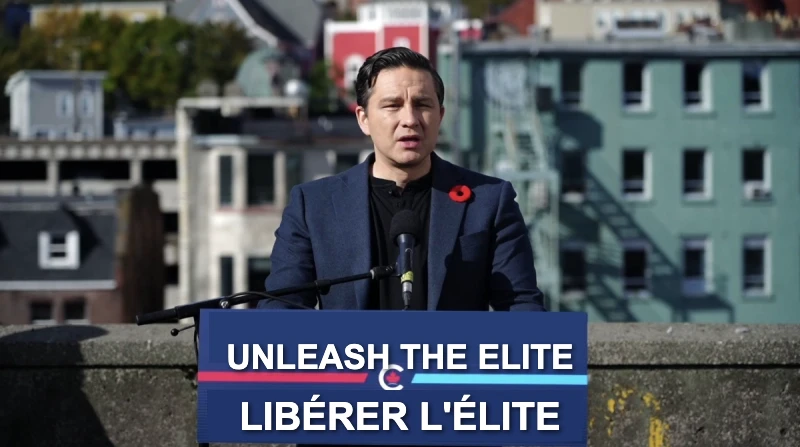
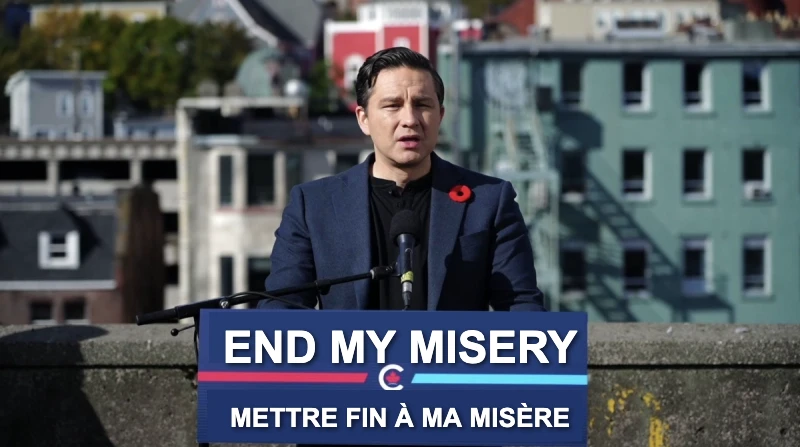
Update verbs, fix positioning of en slogan in export

Changed region(s): [[0.2812, 0.7271, 0.7188, 0.8434], [0.2812, 0.8725, 0.7188, 0.9888]]

diff --git a/js/app.min.js b/js/app.min.js
@@ -1,1 +1,1 @@
-const BACKGROUND_IMAGE="images/pp3.webp",IMAGE_QUALITY=.9,verbs=[{en:"AXE",fr:"SUPPRIMER"},{en:"CUT",fr:"COUPER"},{en:"NIX",fr:"RÉDUIRE"},{en:"SCRAP",fr:"ABANDONNER"},{en:"DUMP",fr:"JETTER"},{en:"SLASH",fr:"SABRER"},{en:"FIX",fr:"RÉPARER"},{en:"STOP",fr:"ARRÊTER"},{en:"BUILD",fr:"CONSTRUIRE"},{en:"BOOST",fr:"STIMULER"},{en:"CRUSH",fr:"ÉCRASER"},{en:"END",fr:"METTRE FIN À"},{en:"CONTROL",fr:"MAÎTRISER"},{en:"DEFUND",fr:"REMBOURSER"},{en:"REIN IN",fr:"FREINER"},{en:"FREEZE",fr:"GELER"},{en:"DRAIN",fr:"ASSÉCHER"},{en:"TACKLE",fr:"AFFRONTER"},{en:"UNLEASH",fr:"LIBÉRER"},{en:"UNLOCK",fr:"DÉBLOQUER"},{en:"DEFEND",fr:"DÉFENDRE"},{en:"REBUILD",fr:"RECONSTRUIRE"},{en:"IGNITE",fr:"ALLUMER"},{en:"EMPOWER",fr:"AUTONOMISER"},{en:"CHAMPION",fr:"DÉFENDRE"},{en:"EXPLOIT",fr:"EXPLOITER"},{en:"RESTORE",fr:"RESTAURER"},{en:"DISRUPT",fr:"PERTURBER"}],nouns=[{en:"THE TAX",fr:"LES IMPÔTS"},{en:"THE BUDGET",fr:"LE BUDGET"},{en:"THE CRIME",fr:"LE CRIME"},{en:"THE JOBS",fr:"LES JOBS"},{en:"THE HOUSES",fr:"LES MAISONS"},{en:"THE BORDERS",fr:"LES FRONTIÈRES"},{en:"THE COST OF LIVING",fr:"LE COÛT DE LA VIE"},{en:"THE HEALTH",fr:"LES SOINS DE SANTÉ"},{en:"THE EDUCATION",fr:"L'ÉDUCATION"},{en:"THE SCHOOLS",fr:"LES ECOLES"},{en:"THE CBC",fr:"RADIO CANADA"},{en:"THE QUEBEC",fr:"LE QUEBEC"},{en:"THE CITY MAYORS",fr:"LES MAIRES DES VILLES"},{en:"THE PUBLIC SECTOR",fr:"LE SECTEUR PUBLIC"},{en:"JUSTIN TRUDEAU",fr:"JUSTIN TRUDEAU"},{en:"THE LIBERALS",fr:"LES LIBÉRAUX"},{en:"THE BLOC",fr:"LE BLOC"},{en:"THE INFLATION",fr:"L'INFLATION"},{en:"THE SWAMP",fr:"LE MARÉCAGE"},{en:"THE RED TAPE",fr:"LA BUREAUCRATIE"},{en:"THE GAS PRICES",fr:"LES PRIX DU CARBURANT"},{en:"THE DEFICIT",fr:"LE DÉFICIT"},{en:"MY MISERY",fr:"MA MISÈRE"},{en:"MY LEADERSHIP",fr:"MON LEADERSHIP"},{en:"MY SEAT",fr:"MON SIÈGE"},{en:"MY SECURITY CLEARANCE",fr:"HABILITATION DE SÉCURITÉ"},{en:"MY PARTY",fr:"MON PARTI"},{en:"THE WASTE",fr:"LE GASPILLAGE"},{en:"THE SYSTEM",fr:"LE SYSTÈME"},{en:"THE ECONOMY",fr:"L'ÉCONOMIE"},{en:"THE ESTABLISHMENT",fr:"L'ESTABLISHMENT"},{en:"THE STATUS QUO",fr:"LE STATU QUO"},{en:"THE MIDDLE CLASS",fr:"LA CLASSE MOYENNE"},{en:"THE SMALL BUSINESSES",fr:"LES PETITES ENTREPRISES"},{en:"THE FUTURE GENERATIONS",fr:"LES GÉNÉRATIONS FUTURES"},{en:"THE BUREAUCRACY",fr:"LA BUREAUCRATIE"},{en:"THE BIG GOVERNMENT",fr:"LE GOUVERNEMENT TENTACULAIRE"},{en:"THE FAMILY VALUES",fr:"LES VALEURS FAMILIALES"},{en:"THE CANADIAN DREAM",fr:"LE RÊVE CANADIEN"},{en:"THE BLOC MAJORITY",fr:"LE BLOC MAJORITAIRE"},{en:"THE DEMOCRACY",fr:"LA DÉMOCRATIE"},{en:"THE REGULATIONS",fr:"LES RÈGLEMENTS"},{en:"THE DEEP STATE",fr:"L'ÉTAT PROFOND"},{en:"THE POLITICAL CORRECTNESS",fr:"LE POLITIQUEMENT CORRECT"},{en:"THE WORKING CLASS",fr:"LA CLASSE OUVRIÈRE"},{en:"THE ENVIRONMENT",fr:"L'ENVIRONNEMENT"},{en:"THE TREES",fr:"LES ARBRES"},{en:"THE SALES TAX",fr:"LA TAXE DE VENTE"},{en:"SNEAKY CARNEY",fr:"CARNEY SOURDIN"},{en:"THE POLICE",fr:"LA POLICE"},{en:"THE MEDIA",fr:"LES MÉDIAS"},{en:"THE ELITE",fr:"L'ÉLITE"},{en:"THE NATION",fr:"LA NATION"},{en:"THE PEOPLE",fr:"LE PEUPLE"},{en:"THE FUTURE",fr:"L'AVENIR"},{en:"THE COUNTRY",fr:"LE PAYS"},{en:"THE REPUBLIC",fr:"LA RÉPUBLIQUE"},{en:"THE WORLD",fr:"LE MONDE"},{en:"THE PLANET",fr:"LA PLANÈTE"},{en:"THE UNIVERSE",fr:"L'UNIVERS"},{en:"THE GALAXY",fr:"LA GALAXIE"},{en:"THE COSMOS",fr:"LE COSMOS"},{en:"THE MULTIVERSE",fr:"LE MULTIVERS"},{en:"THE 51ST STATE",fr:"LE 51e ÉTAT"}];let lastVerbIndex,lastNounIndex;function generateSlogan(){let e,n,t=0;do{if(e=Math.floor(Math.random()*verbs.length),n=Math.floor(Math.random()*nouns.length),t++,t>=10)break}while(e===lastVerbIndex&&n===lastNounIndex);lastVerbIndex=e,lastNounIndex=n;const r=verbs[e],E=nouns[n];return{en:`${r.en} ${E.en}`,fr:`${r.fr} ${E.fr}`}}function createSharingImage(e,n){return new Promise((t=>{const r=new Image;r.onload=function(){const E=r.naturalWidth,o=r.naturalHeight,a=document.createElement("canvas");a.width=E,a.height=o;a.getContext("2d").drawImage(r,0,0);const i=createSVGContent(a.toDataURL("image/webp"),calculateTextSettings(e,n,E,o),E,o,e,n),s=new Blob([i],{type:"image/svg+xml"}),f=URL.createObjectURL(s);t({url:f,svgContent:i})},r.onerror=function(){console.error("Failed to load image:",BACKGROUND_IMAGE),t({error:!0,message:"Failed to load background image"})},r.src=BACKGROUND_IMAGE}))}function calculateTextSettings(e,n,t,r){const E=Math.round(.87*r),o=e.length,a=n.length,i=.029*t;return{enY:E-30,frY:E+30,enSize:Math.min(Math.max(i*(25/Math.max(o,10)),14),50),frSize:Math.min(Math.max(i*(25/Math.max(a,10)),12),40)}}function createSVGContent(e,n,t,r,E,o){return`\n    <svg xmlns="http://www.w3.org/2000/svg" \n        width="100%" \n        height="auto" \n        viewBox="0 0 ${t} ${r}"\n        preserveAspectRatio="xMidYMid meet">\n        <defs>\n            <style>\n                .slogan-text {\n                    font-family: Arial, sans-serif;\n                    font-weight: bold;\n                    fill: white;\n                    text-anchor: middle;\n                    text-shadow: 2px 2px 4px rgba(0, 0, 0, 0.7);\n                }\n            </style>\n        </defs>\n        \n        \x3c!-- Background image with embedded data URL --\x3e\n        <image href="${e}" width="100%" height="100%" preserveAspectRatio="xMidYMid meet" />\n        \n        \x3c!-- English slogan --\x3e\n        <text class="slogan-text" x="${t/2}" y="${n.enY}" font-size="${n.enSize}">\n            ${E}\n        </text>\n        \n        \x3c!-- French slogan --\x3e\n        <text class="slogan-text" x="${t/2}" y="${n.frY}" font-size="${n.frSize}">\n            ${o}\n        </text>\n    </svg>`}function updateSlogan(){const e=generateSlogan(),n=document.getElementById("podium-container");n.innerHTML='<div class="loading">Generating slogan...</div>',createSharingImage(e.en,e.fr).then((t=>{const r=document.createElement("img");r.src=t.url,r.alt=`Campaign slogan: ${e.en} / ${e.fr}`,r.className="fade-in",r.dataset.svgContent=t.svgContent,n.innerHTML="",n.appendChild(r)})).catch((t=>{console.error("Error creating slogan image:",t),n.innerHTML=`\n                <div class="error-message">\n                    <p>Error generating image</p>\n                    <p>English: ${e.en}</p>\n                    <p>French: ${e.fr}</p>\n                </div>`}))}function processImage(e,n){if(!e)return console.error("No SVG content found"),void n(null,null,!0);const t=new Image;t.onload=function(){const r=document.createElement("canvas"),E=r.getContext("2d");r.width=t.naturalWidth,r.height=t.naturalHeight,E.drawImage(t,0,0);const o=extractTextFromSVG(e);renderTextOnCanvas(E,r.width,o),n(r,e)},t.onerror=function(){console.error("Failed to load original image"),n(null,e,!0)},t.src=BACKGROUND_IMAGE}function extractTextFromSVG(e){const n=(new DOMParser).parseFromString(e,"image/svg+xml").querySelectorAll("text");let t={en:{text:"",y:0,fontSize:0},fr:{text:"",y:0,fontSize:0}};return n.forEach(((e,n)=>{const r=e.textContent.trim(),E=parseFloat(e.getAttribute("y")),o=parseFloat(e.getAttribute("font-size"));0===n?t.en={text:r,y:E,fontSize:o}:t.fr={text:r,y:E,fontSize:o}})),t}function renderTextOnCanvas(e,n,t){e.fillStyle="white",e.textAlign="center",e.textBaseline="middle",e.shadowColor="rgba(0, 0, 0, 0.7)",e.shadowBlur=4,e.shadowOffsetX=2,e.shadowOffsetY=2,e.font=`bold ${t.en.fontSize}px Arial, sans-serif`,e.fillText(t.en.text,n/2,t.en.y),e.font=`bold ${t.fr.fontSize}px Arial, sans-serif`,e.fillText(t.fr.text,n/2,t.fr.y)}function exportCanvas(e,n,t){const{asDownload:r=!1,filename:E="campaign-slogan"}=t||{};try{exportCanvasAs(e,"webp",`${E}.webp`,r)}catch(t){console.error("Error creating WebP:",t);try{exportCanvasAs(e,"png",`${E}.png`,r)}catch(e){console.error("Error creating PNG:",e),n&&exportSVG(n,`${E}.svg`,r)}}}function exportCanvasAs(e,n,t,r){if(r){const r=e.toDataURL(`image/${n}`,.9),E=document.createElement("a");E.href=r,E.download=t,document.body.appendChild(E),E.click(),document.body.removeChild(E)}else e.toBlob((e=>{const n=URL.createObjectURL(e);window.open(n,"_blank"),setTimeout((()=>URL.revokeObjectURL(n)),6e4)}),`image/${n}`,.9)}function exportSVG(e,n,t){const r=new Blob([e],{type:"image/svg+xml"}),E=URL.createObjectURL(r);if(t){const e=document.createElement("a");e.href=E,e.download=n,document.body.appendChild(e),e.click(),document.body.removeChild(e),URL.revokeObjectURL(E)}else window.open(E,"_blank"),setTimeout((()=>URL.revokeObjectURL(E)),6e4)}function downloadShareableImage(){const e=document.querySelector("#podium-container img");e&&e.dataset.svgContent?processImage(e.dataset.svgContent,((e,n,t)=>{if(t)return alert("Failed to load background image. Falling back to SVG."),void exportSVG(n,"campaign-slogan.svg",!0);exportCanvas(e,n,{asDownload:!0})})):console.error("No image or SVG content found")}function shareInNewTab(){const e=document.querySelector("#podium-container img");e&&e.dataset.svgContent?processImage(e.dataset.svgContent,((e,n,t)=>{t?exportSVG(n,null,!1):exportCanvas(e,n,{asDownload:!1})})):console.error("No image or SVG content found")}function downloadAsSVG(e){const n=new Blob([e],{type:"image/svg+xml"}),t=URL.createObjectURL(n),r=document.createElement("a");r.href=t,r.download="campaign-slogan.svg",document.body.appendChild(r),r.click(),document.body.removeChild(r),URL.revokeObjectURL(t)}function addAnimationStyles(){if(!document.querySelector("style#slogan-animations")){const e=document.createElement("style");e.id="slogan-animations",e.textContent="\n            @keyframes fadeIn {\n                from { opacity: 0; transform: translateY(10px); }\n                to { opacity: 1; transform: translateY(0); }\n            }\n            .fade-in {\n                animation: fadeIn 0.5s ease-in-out;\n            }\n            .loading {\n                font-family: Arial, sans-serif;\n                text-align: center;\n                padding: 20px;\n                color: #333;\n            }\n            .error-message {\n                font-family: Arial, sans-serif;\n                text-align: center;\n                padding: 20px;\n                color: #721c24;\n                background-color: #f8d7da;\n                border: 1px solid #f5c6cb;\n                border-radius: 4px;\n            }\n        ",document.head.appendChild(e)}}document.addEventListener("DOMContentLoaded",(()=>{addAnimationStyles(),updateSlogan(),document.getElementById("generateButton").addEventListener("click",updateSlogan),document.getElementById("downloadButton").addEventListener("click",downloadShareableImage),document.getElementById("shareButton").addEventListener("click",shareInNewTab),document.addEventListener("keydown",(function(e){"Space"===e.code&&(updateSlogan(),e.preventDefault())}))}));
+const BACKGROUND_IMAGE="images/pp3.webp",IMAGE_QUALITY=.9,verbs=[{en:"AXE",fr:"HACHER"},{en:"CUT",fr:"COUPER"},{en:"NIX",fr:"RÉDUIRE"},{en:"SCRAP",fr:"SCRAPPER"},{en:"DUMP",fr:"JETTER"},{en:"SLASH",fr:"SLASHER"},{en:"FIX",fr:"RÉPARER"},{en:"STOP",fr:"STOPPER"},{en:"BUILD",fr:"CONSTRUIRE"},{en:"BOOST",fr:"BOOSTER"},{en:"CRUSH",fr:"ÉCRASER"},{en:"END",fr:"METTRE FIN À"},{en:"CONTROL",fr:"MAÎTRISER"},{en:"DEFUND",fr:"REMBOURSER"},{en:"REIN IN",fr:"FREINER"},{en:"FREEZE",fr:"GELER"},{en:"DRAIN",fr:"ASSÉCHER"},{en:"TACKLE",fr:"TACKLER"},{en:"UNLEASH",fr:"LIBÉRER"},{en:"UNLOCK",fr:"DÉBLOQUER"},{en:"DEFEND",fr:"DÉFENDRE"},{en:"REBUILD",fr:"RECONSTRUIRE"},{en:"IGNITE",fr:"ALLUMER"},{en:"EMPOWER",fr:"AUTONOMISER"},{en:"CHAMPION",fr:"CHAMPIONER"},{en:"EXPLOIT",fr:"EXPLOITER"},{en:"RESTORE",fr:"RESTAURER"},{en:"DISRUPT",fr:"PERTURBER"},{en:"YEET",fr:"YEETER"}],nouns=[{en:"THE TAX",fr:"LES IMPÔTS"},{en:"THE BUDGET",fr:"LE BUDGET"},{en:"THE CRIME",fr:"LE CRIME"},{en:"THE JOBS",fr:"LES JOBS"},{en:"THE HOUSES",fr:"LES MAISONS"},{en:"THE BORDERS",fr:"LES FRONTIÈRES"},{en:"THE COST OF LIVING",fr:"LE COÛT DE LA VIE"},{en:"THE HEALTH",fr:"LES SOINS DE SANTÉ"},{en:"THE EDUCATION",fr:"L'ÉDUCATION"},{en:"THE SCHOOLS",fr:"LES ECOLES"},{en:"THE CBC",fr:"RADIO CANADA"},{en:"THE QUEBEC",fr:"LE QUEBEC"},{en:"THE CITY MAYORS",fr:"LES MAIRES DES VILLES"},{en:"THE PUBLIC SECTOR",fr:"LE SECTEUR PUBLIC"},{en:"JUSTIN TRUDEAU",fr:"JUSTIN TRUDEAU"},{en:"THE LIBERALS",fr:"LES LIBÉRAUX"},{en:"THE BLOC",fr:"LE BLOC"},{en:"THE INFLATION",fr:"L'INFLATION"},{en:"THE SWAMP",fr:"LE MARÉCAGE"},{en:"THE RED TAPE",fr:"LA BUREAUCRATIE"},{en:"THE GAS PRICES",fr:"LES PRIX DU CARBURANT"},{en:"THE DEFICIT",fr:"LE DÉFICIT"},{en:"MY MISERY",fr:"MA MISÈRE"},{en:"MY LEADERSHIP",fr:"MON LEADERSHIP"},{en:"MY SEAT",fr:"MON SIÈGE"},{en:"MY SECURITY CLEARANCE",fr:"HABILITATION DE SÉCURITÉ"},{en:"MY PARTY",fr:"MON PARTI"},{en:"THE WASTE",fr:"LE GASPILLAGE"},{en:"THE SUITS",fr:"LES COSTUMES"},{en:"THE SYSTEM",fr:"LE SYSTÈME"},{en:"THE ECONOMY",fr:"L'ÉCONOMIE"},{en:"THE ESTABLISHMENT",fr:"L'ESTABLISHMENT"},{en:"THE STATUS QUO",fr:"LE STATU QUO"},{en:"THE MIDDLE CLASS",fr:"LA CLASSE MOYENNE"},{en:"THE SMALL BUSINESSES",fr:"LES PETITES ENTREPRISES"},{en:"THE FUTURE GENERATIONS",fr:"LES GÉNÉRATIONS FUTURES"},{en:"THE BUREAUCRACY",fr:"LA BUREAUCRATIE"},{en:"THE BIG GOVERNMENT",fr:"LE GOUVERNEMENT TENTACULAIRE"},{en:"THE FAMILY VALUES",fr:"LES VALEURS FAMILIALES"},{en:"THE CANADIAN DREAM",fr:"LE RÊVE CANADIEN"},{en:"THE BLOC MAJORITY",fr:"LE BLOC MAJORITAIRE"},{en:"THE DEMOCRACY",fr:"LA DÉMOCRATIE"},{en:"THE REGULATIONS",fr:"LES RÈGLEMENTS"},{en:"THE DEEP STATE",fr:"L'ÉTAT PROFOND"},{en:"THE POLITICAL CORRECTNESS",fr:"LE POLITIQUEMENT CORRECT"},{en:"THE WORKING CLASS",fr:"LA CLASSE OUVRIÈRE"},{en:"THE ENVIRONMENT",fr:"L'ENVIRONNEMENT"},{en:"THE TREES",fr:"LES ARBRES"},{en:"THE SALES TAX",fr:"LA TAXE DE VENTE"},{en:"SNEAKY CARNEY",fr:"CARNEY SOURDIN"},{en:"THE POLICE",fr:"LA POLICE"},{en:"THE MEDIA",fr:"LES MÉDIAS"},{en:"THE ELITE",fr:"L'ÉLITE"},{en:"THE NATION",fr:"LA NATION"},{en:"THE PEOPLE",fr:"LE PEUPLE"},{en:"THE FUTURE",fr:"L'AVENIR"},{en:"THE COUNTRY",fr:"LE PAYS"},{en:"THE WORLD",fr:"LE MONDE"},{en:"THE PLANET",fr:"LA PLANÈTE"},{en:"THE UNIVERSE",fr:"L'UNIVERS"},{en:"THE GALAXY",fr:"LA GALAXIE"},{en:"THE COSMOS",fr:"LE COSMOS"},{en:"THE MULTIVERSE",fr:"LE MULTIVERS"},{en:"THE 51ST STATE",fr:"LE 51e ÉTAT"}];let lastVerbIndex,lastNounIndex;function generateSlogan(){let e,n,t=0;do{if(e=Math.floor(Math.random()*verbs.length),n=Math.floor(Math.random()*nouns.length),t++,t>=10)break}while(e===lastVerbIndex&&n===lastNounIndex);lastVerbIndex=e,lastNounIndex=n;const r=verbs[e],E=nouns[n];return{en:`${r.en} ${E.en}`,fr:`${r.fr} ${E.fr}`}}function createSharingImage(e,n){return new Promise((t=>{const r=new Image;r.onload=function(){const E=r.naturalWidth,o=r.naturalHeight,a=document.createElement("canvas");a.width=E,a.height=o;a.getContext("2d").drawImage(r,0,0);const i=createSVGContent(a.toDataURL("image/webp"),calculateTextSettings(e,n,E,o),E,o,e,n),s=new Blob([i],{type:"image/svg+xml"}),T=URL.createObjectURL(s);t({url:T,svgContent:i})},r.onerror=function(){console.error("Failed to load image:",BACKGROUND_IMAGE),t({error:!0,message:"Failed to load background image"})},r.src=BACKGROUND_IMAGE}))}function calculateTextSettings(e,n,t,r){const E=Math.round(.87*r),o=e.length,a=n.length,i=.029*t;return{enY:E-30,frY:E+30,enSize:Math.min(Math.max(i*(25/Math.max(o,10)),14),50),frSize:Math.min(Math.max(i*(25/Math.max(a,10)),12),40)}}function createSVGContent(e,n,t,r,E,o){return`\n    <svg xmlns="http://www.w3.org/2000/svg" \n        width="100%" \n        height="auto" \n        viewBox="0 0 ${t} ${r}"\n        preserveAspectRatio="xMidYMid meet">\n        <defs>\n            <style>\n                .slogan-text {\n                    font-family: Arial, sans-serif;\n                    font-weight: bold;\n                    fill: white;\n                    text-anchor: middle;\n                    text-shadow: 2px 2px 4px rgba(0, 0, 0, 0.7);\n                }\n            </style>\n        </defs>\n        \n        \x3c!-- Background image with embedded data URL --\x3e\n        <image href="${e}" width="100%" height="100%" preserveAspectRatio="xMidYMid meet" />\n        \n        \x3c!-- English slogan --\x3e\n        <text class="slogan-text" x="${t/2}" y="${n.enY}" font-size="${n.enSize}">\n            ${E}\n        </text>\n        \n        \x3c!-- French slogan --\x3e\n        <text class="slogan-text" x="${t/2}" y="${n.frY}" font-size="${n.frSize}">\n            ${o}\n        </text>\n    </svg>`}function updateSlogan(){const e=generateSlogan(),n=document.getElementById("podium-container");n.innerHTML='<div class="loading">Generating slogan...</div>',createSharingImage(e.en,e.fr).then((t=>{const r=document.createElement("img");r.src=t.url,r.alt=`Campaign slogan: ${e.en} / ${e.fr}`,r.className="fade-in",r.dataset.svgContent=t.svgContent,n.innerHTML="",n.appendChild(r)})).catch((t=>{console.error("Error creating slogan image:",t),n.innerHTML=`\n                <div class="error-message">\n                    <p>Error generating image</p>\n                    <p>English: ${e.en}</p>\n                    <p>French: ${e.fr}</p>\n                </div>`}))}function processImage(e,n){if(!e)return console.error("No SVG content found"),void n(null,null,!0);const t=new Image;t.onload=function(){const r=document.createElement("canvas"),E=r.getContext("2d");r.width=t.naturalWidth,r.height=t.naturalHeight,E.drawImage(t,0,0);const o=extractTextFromSVG(e);renderTextOnCanvas(E,r.width,o),n(r,e)},t.onerror=function(){console.error("Failed to load original image"),n(null,e,!0)},t.src=BACKGROUND_IMAGE}function extractTextFromSVG(e){const n=(new DOMParser).parseFromString(e,"image/svg+xml").querySelectorAll("text");let t={en:{text:"",y:0,fontSize:0},fr:{text:"",y:0,fontSize:0}};return n.forEach(((e,n)=>{const r=e.textContent.trim(),E=parseFloat(e.getAttribute("y")),o=parseFloat(e.getAttribute("font-size"));0===n?t.en={text:r,y:E,fontSize:o}:t.fr={text:r,y:E,fontSize:o}})),t}function renderTextOnCanvas(e,n,t){e.fillStyle="white",e.textAlign="center",e.textBaseline="middle",e.shadowColor="rgba(0, 0, 0, 0.7)",e.shadowBlur=4,e.shadowOffsetX=2,e.shadowOffsetY=2,e.font=`bold ${t.en.fontSize}px Arial, sans-serif`,e.fillText(t.en.text,n/2,t.en.y-10),e.font=`bold ${t.fr.fontSize}px Arial, sans-serif`,e.fillText(t.fr.text,n/2,t.fr.y)}function exportCanvas(e,n,t){const{asDownload:r=!1,filename:E="campaign-slogan"}=t||{};try{exportCanvasAs(e,"webp",`${E}.webp`,r)}catch(t){console.error("Error creating WebP:",t);try{exportCanvasAs(e,"png",`${E}.png`,r)}catch(e){console.error("Error creating PNG:",e),n&&exportSVG(n,`${E}.svg`,r)}}}function exportCanvasAs(e,n,t,r){if(r){const r=e.toDataURL(`image/${n}`,.9),E=document.createElement("a");E.href=r,E.download=t,document.body.appendChild(E),E.click(),document.body.removeChild(E)}else e.toBlob((e=>{const n=URL.createObjectURL(e);window.open(n,"_blank"),setTimeout((()=>URL.revokeObjectURL(n)),6e4)}),`image/${n}`,.9)}function exportSVG(e,n,t){const r=new Blob([e],{type:"image/svg+xml"}),E=URL.createObjectURL(r);if(t){const e=document.createElement("a");e.href=E,e.download=n,document.body.appendChild(e),e.click(),document.body.removeChild(e),URL.revokeObjectURL(E)}else window.open(E,"_blank"),setTimeout((()=>URL.revokeObjectURL(E)),6e4)}function downloadShareableImage(){const e=document.querySelector("#podium-container img");e&&e.dataset.svgContent?processImage(e.dataset.svgContent,((e,n,t)=>{if(t)return alert("Failed to load background image. Falling back to SVG."),void exportSVG(n,"campaign-slogan.svg",!0);exportCanvas(e,n,{asDownload:!0})})):console.error("No image or SVG content found")}function shareInNewTab(){const e=document.querySelector("#podium-container img");e&&e.dataset.svgContent?processImage(e.dataset.svgContent,((e,n,t)=>{t?exportSVG(n,null,!1):exportCanvas(e,n,{asDownload:!1})})):console.error("No image or SVG content found")}function downloadAsSVG(e){const n=new Blob([e],{type:"image/svg+xml"}),t=URL.createObjectURL(n),r=document.createElement("a");r.href=t,r.download="campaign-slogan.svg",document.body.appendChild(r),r.click(),document.body.removeChild(r),URL.revokeObjectURL(t)}function addAnimationStyles(){if(!document.querySelector("style#slogan-animations")){const e=document.createElement("style");e.id="slogan-animations",e.textContent="\n            @keyframes fadeIn {\n                from { opacity: 0; transform: translateY(10px); }\n                to { opacity: 1; transform: translateY(0); }\n            }\n            .fade-in {\n                animation: fadeIn 0.5s ease-in-out;\n            }\n            .loading {\n                font-family: Arial, sans-serif;\n                text-align: center;\n                padding: 20px;\n                color: #333;\n            }\n            .error-message {\n                font-family: Arial, sans-serif;\n                text-align: center;\n                padding: 20px;\n                color: #721c24;\n                background-color: #f8d7da;\n                border: 1px solid #f5c6cb;\n                border-radius: 4px;\n            }\n        ",document.head.appendChild(e)}}document.addEventListener("DOMContentLoaded",(()=>{addAnimationStyles(),updateSlogan(),document.getElementById("generateButton").addEventListener("click",updateSlogan),document.getElementById("downloadButton").addEventListener("click",downloadShareableImage),document.getElementById("shareButton").addEventListener("click",shareInNewTab),document.addEventListener("keydown",(function(e){"Space"===e.code&&(updateSlogan(),e.preventDefault())}))}));

diff --git a/js/app.js b/js/app.js
@@ -2,16 +2,16 @@ const BACKGROUND_IMAGE = "images/pp3.webp";
 const IMAGE_QUALITY = 0.9; // For WebP/PNG exports
 
 const verbs = [
-    { en: "AXE", fr: "SUPPRIMER" },
+    { en: "AXE", fr: "HACHER" },
     { en: "CUT", fr: "COUPER" },
     { en: "NIX", fr: "RÉDUIRE" },
-    { en: "SCRAP", fr: "ABANDONNER" },
+    { en: "SCRAP", fr: "SCRAPPER" },
     { en: "DUMP", fr: "JETTER" },
-    { en: "SLASH", fr: "SABRER" },
+    { en: "SLASH", fr: "SLASHER" },
     { en: "FIX", fr: "RÉPARER" },
-    { en: "STOP", fr: "ARRÊTER" },
+    { en: "STOP", fr: "STOPPER" },
     { en: "BUILD", fr: "CONSTRUIRE" },
-    { en: "BOOST", fr: "STIMULER" },
+    { en: "BOOST", fr: "BOOSTER" },
     { en: "CRUSH", fr: "ÉCRASER" },
     { en: "END", fr: "METTRE FIN À" },
     { en: "CONTROL", fr: "MAÎTRISER" },
@@ -19,17 +19,18 @@ const verbs = [
     { en: "REIN IN", fr: "FREINER" },
     { en: "FREEZE", fr: "GELER" },
     { en: "DRAIN", fr: "ASSÉCHER" },
-    { en: "TACKLE", fr: "AFFRONTER" },
+    { en: "TACKLE", fr: "TACKLER" },
     { en: "UNLEASH", fr: "LIBÉRER" },
     { en: "UNLOCK", fr: "DÉBLOQUER" },
     { en: "DEFEND", fr: "DÉFENDRE" },
     { en: "REBUILD", fr: "RECONSTRUIRE" },
     { en: "IGNITE", fr: "ALLUMER" },
     { en: "EMPOWER", fr: "AUTONOMISER" },
-    { en: "CHAMPION", fr: "DÉFENDRE" },
+    { en: "CHAMPION", fr: "CHAMPIONER" },
     { en: "EXPLOIT", fr: "EXPLOITER" },
     { en: "RESTORE", fr: "RESTAURER" },
     { en: "DISRUPT", fr: "PERTURBER" },
+    { en: "YEET", fr: "YEETER" },
 ];
 
 const nouns = [
@@ -61,6 +62,7 @@ const nouns = [
     { en: "MY SECURITY CLEARANCE", fr: "HABILITATION DE SÉCURITÉ" },
     { en: "MY PARTY", fr: "MON PARTI" },
     { en: "THE WASTE", fr: "LE GASPILLAGE" },
+    { en: "THE SUITS", fr: "LES COSTUMES" },
     { en: "THE SYSTEM", fr: "LE SYSTÈME" },
     { en: "THE ECONOMY", fr: "L'ÉCONOMIE" },
     { en: "THE ESTABLISHMENT", fr: "L'ESTABLISHMENT" },
@@ -89,7 +91,6 @@ const nouns = [
     { en: "THE PEOPLE", fr: "LE PEUPLE" },
     { en: "THE FUTURE", fr: "L'AVENIR" },
     { en: "THE COUNTRY", fr: "LE PAYS" },
-    { en: "THE REPUBLIC", fr: "LA RÉPUBLIQUE" },
     { en: "THE WORLD", fr: "LE MONDE" },
     { en: "THE PLANET", fr: "LA PLANÈTE" },
     { en: "THE UNIVERSE", fr: "L'UNIVERS" },
@@ -361,7 +362,7 @@ function renderTextOnCanvas(ctx, canvasWidth, textInfo) {
     
     // Draw English text
     ctx.font = `bold ${textInfo.en.fontSize}px Arial, sans-serif`;
-    ctx.fillText(textInfo.en.text, canvasWidth / 2, textInfo.en.y);
+    ctx.fillText(textInfo.en.text, canvasWidth / 2, textInfo.en.y - 10);
     
     // Draw French text
     ctx.font = `bold ${textInfo.fr.fontSize}px Arial, sans-serif`;

diff --git a/index.html b/index.html
@@ -34,6 +34,6 @@
     <footer>
         <a href="https://www.reddit.com/r/ehbuddyhoser" target="_blank" rel="noopener noreferrer">r/ehbuddyhoser</a>
     </footer>
-    <script src="js/app.min.js"></script>
+    <script src="js/app.min.js?v=1.0"></script>
 </body>
 </html>
